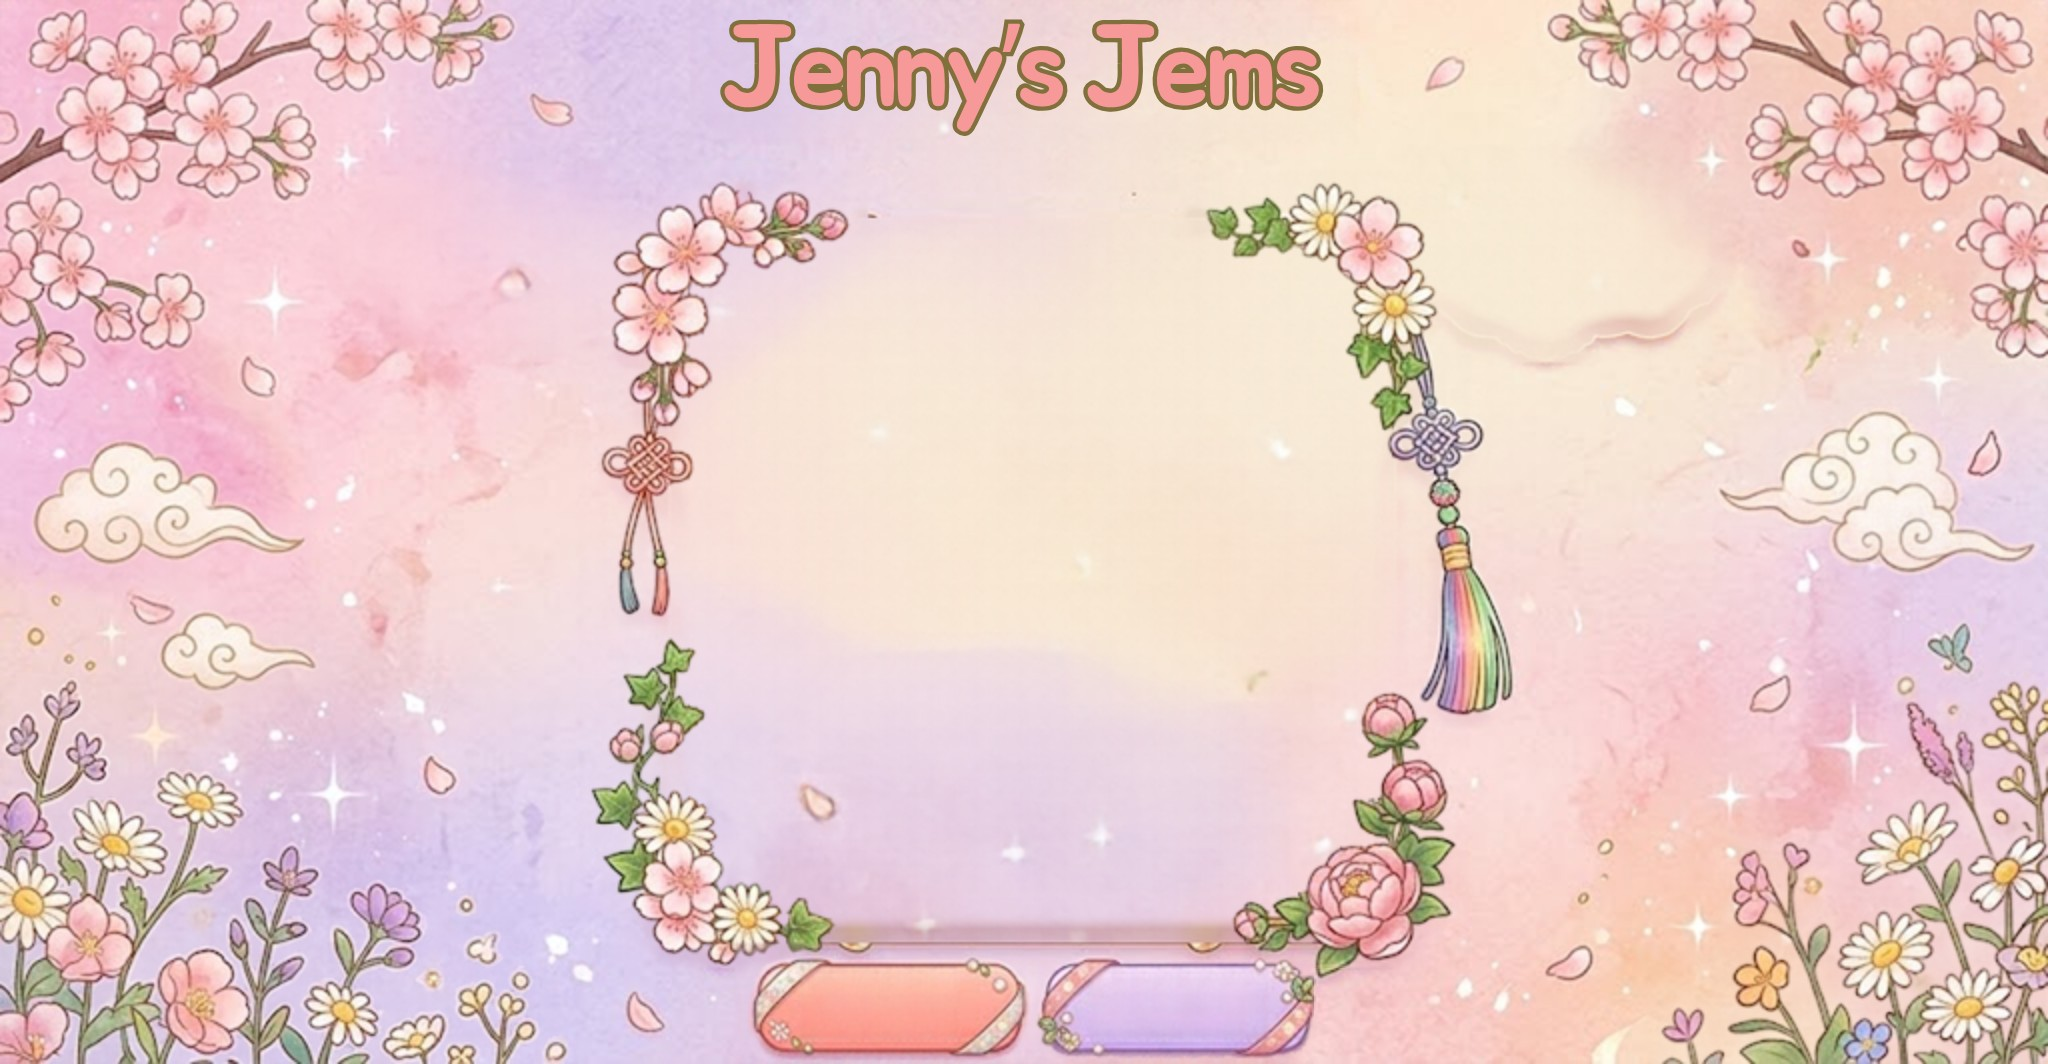
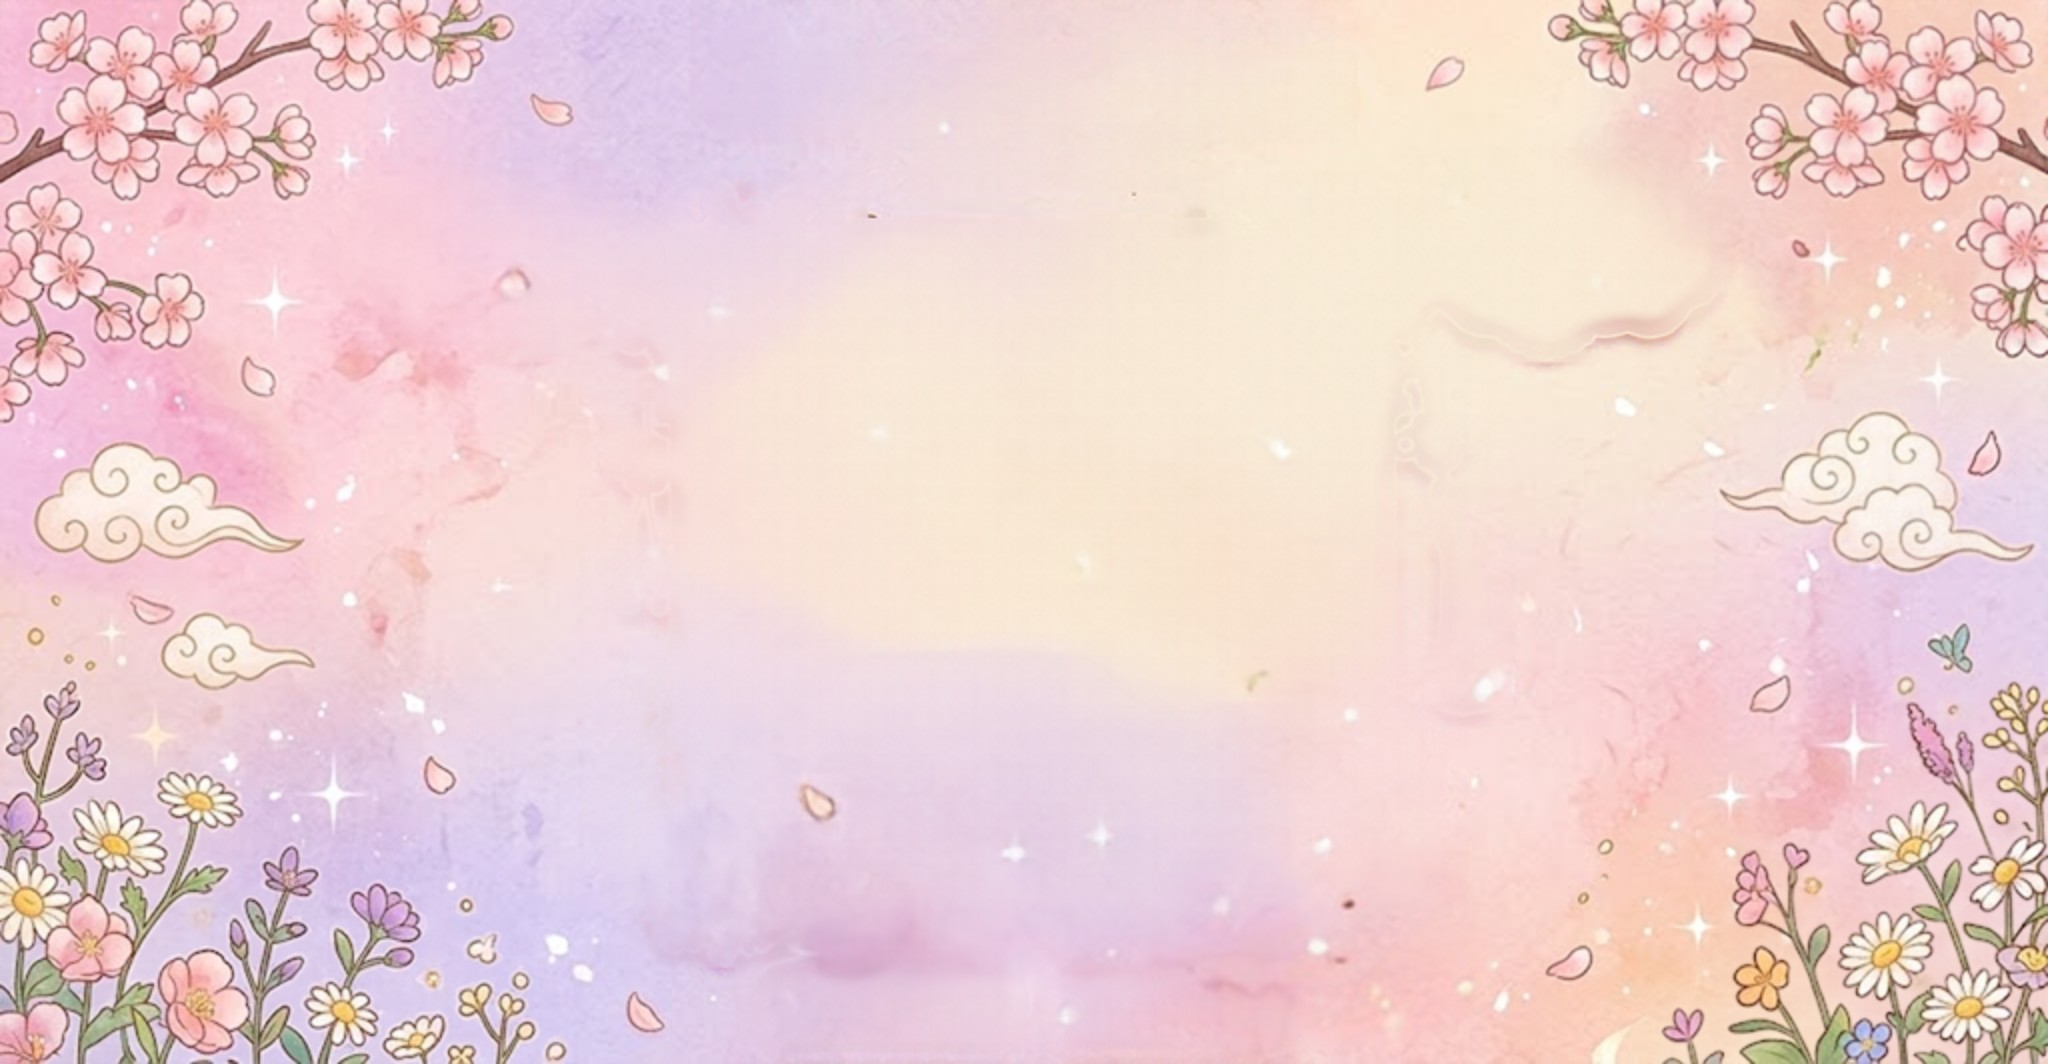
Use owner's artwork for background and frame overlay
- Replace background with clean version (no tassels/frame baked in)
- Add frame.png: transparent floral border overlay drawn cover-fit
  on top of the background at the same scale
- Strip the procedural gold band + cherry blossom border from the
  play grid, leaving a plain cream box with checker cells
- Remove tassel-left.png, tassel-right.png (replaced by frame.png)
- Remove all procedural decoration code from bg.ts (clouds, petals,
  branches, flowers, tassels) -- the owner's artwork handles it all
- JS bundle drops from 46.9KB to 41.4KB (deco.ts tree-shaken out)

Claude-Session: https://claude.ai/code/session_01S2amxi1X8ojXh8LvQoFkPY

Changed region(s): [[0.2812, 0.1551, 0.75, 1.0], [0.3438, 0.0, 0.6562, 0.1241]]

diff --git a/src/bg.ts b/src/bg.ts
@@ -1,22 +1,6 @@
-// Page background: the owner's reference mockup image, drawn cover-fit. On a
-// narrow/tall (portrait phone) viewport, cover-fit crops so much off the sides
-// that the mockup's own edge decorations (tassels, corner blossoms) fall
-// entirely outside the visible window -- so on those aspect ratios a
-// procedural decoration layer (same look, viewport-relative so it can't be
-// cropped out) is drawn on top to restore them. Falls back to a plain
-// gradient (matching the mockup's own tones) until the image loads.
-
-import { FLOWER_COLORS, drawBranch, drawCloud, drawFlower, drawLeaf, drawPetal, drawSparkle } from './deco.ts';
-import { mulberry32 } from './board.ts';
-
-type Ctx2D = CanvasRenderingContext2D;
-
-const DAISY: [string, string] = ['#ffffff', '#ffd84d'];
-const LAVENDER: [string, string] = ['#d8c2f5', '#b393e0'];
-const PEONY_COLORS: Array<[string, string]> = [
-  ['#ffb6c9', '#e85d8a'],
-  ['#ffc2d6', '#ff6f91'],
-];
+// Page background: the owner's artwork drawn cover-fit, with a transparent
+// floral frame overlay (same dimensions, same cover-fit transform) on top.
+// Falls back to a plain gradient until the images load.
 
 interface Asset {
   img: HTMLImageElement;
@@ -35,16 +19,11 @@ function loadAsset(src: string, onReady: () => void): Asset {
 }
 
 let bgImage: Asset | null = null;
-// The real tassel artwork cropped straight out of the mockup photo (rather than
-// a procedural recreation, which didn't match the owner's reference closely
-// enough), feathered at the edges so it blends into the decoration layer below.
-let tasselLeft: Asset | null = null;
-let tasselRight: Asset | null = null;
+let frameImage: Asset | null = null;
 
 function loadAssets(onReady: () => void): void {
   if (!bgImage) bgImage = loadAsset('./bg-mockup.jpg', onReady);
-  if (!tasselLeft) tasselLeft = loadAsset('./tassel-left.png', onReady);
-  if (!tasselRight) tasselRight = loadAsset('./tassel-right.png', onReady);
+  if (!frameImage) frameImage = loadAsset('./frame.png', onReady);
 }
 
 function fillFallbackGradient(ctx: CanvasRenderingContext2D, w: number, h: number): void {
@@ -56,140 +35,14 @@ function fillFallbackGradient(ctx: CanvasRenderingContext2D, w: number, h: numbe
   ctx.fillRect(0, 0, w, h);
 }
 
-function stem(ctx: Ctx2D, x0: number, y0: number, x1: number, y1: number, color: string, w: number): void {
-  ctx.save();
-  ctx.strokeStyle = color;
-  ctx.lineWidth = w;
-  ctx.lineCap = 'round';
-  ctx.beginPath();
-  ctx.moveTo(x0, y0);
-  ctx.quadraticCurveTo((x0 + x1) / 2 + (y0 - y1) * 0.08, (y0 + y1) / 2, x1, y1);
-  ctx.stroke();
-  ctx.restore();
+function drawCoverFit(ctx: CanvasRenderingContext2D, img: HTMLImageElement, w: number, h: number): void {
+  const scale = Math.max(w / img.naturalWidth, h / img.naturalHeight);
+  const dw = img.naturalWidth * scale;
+  const dh = img.naturalHeight * scale;
+  ctx.drawImage(img, (w - dw) / 2, (h - dh) / 2, dw, dh);
 }
 
-/** A branch of cherry blossoms growing in from a page corner. */
-function blossomBranch(ctx: Ctx2D, cx: number, cy: number, dirX: number, dirY: number, len: number): void {
-  const angle = Math.atan2(dirY, dirX);
-  drawBranch(ctx, cx, cy, len, angle, '#8a5a42');
-  const blossoms = 5;
-  for (let i = 0; i < blossoms; i++) {
-    const t = 0.22 + (i / (blossoms - 1)) * 0.72;
-    const perp = i % 2 ? 1 : -1;
-    const bx = cx + dirX * len * t - dirY * perp * len * 0.05;
-    const by = cy + dirY * len * t + dirX * perp * len * 0.05;
-    const r = len * (0.07 + (i % 3) * 0.018);
-    const [petal, center] = FLOWER_COLORS[i % FLOWER_COLORS.length]!;
-    drawLeaf(ctx, bx, by, r * 1.4, angle - 0.9, '#9bc9a0');
-    drawFlower(ctx, bx, by, r, petal, center, 5, i * 0.7);
-  }
-}
-
-/** Viewport-relative decorations (tassels, blossom branches, scattered flowers) that
- * can't be cropped out by the mockup photo's cover-fit, since they aren't part of it. */
-function drawProceduralDecoration(
-  ctx: Ctx2D,
-  w: number,
-  h: number,
-  tasselLeftAsset: Asset | null,
-  tasselRightAsset: Asset | null,
-): void {
-  const rng = mulberry32(2026);
-  const unit = Math.min(w, h);
-
-  ctx.globalAlpha = 0.55;
-  for (let i = 0; i < 10; i++) {
-    const [petal] = FLOWER_COLORS[Math.floor(rng() * FLOWER_COLORS.length)]!;
-    drawPetal(ctx, rng() * w, rng() * h, unit * (0.01 + rng() * 0.012), rng() * Math.PI * 2, petal);
-  }
-
-  ctx.globalAlpha = 0.85;
-  for (let i = 0; i < 12; i++) {
-    drawSparkle(ctx, rng() * w, rng() * h, unit * (0.006 + rng() * 0.01), '#ffffff', 0.7 + rng() * 0.3);
-  }
-
-  // Traditional Korean cloud (구름) motifs, drifting mid-height on each side.
-  ctx.globalAlpha = 1;
-  drawCloud(ctx, w * 0.1, h * 0.36, unit * 0.16, '#c9943a', 0.3);
-  drawCloud(ctx, w * 0.06, h * 0.56, unit * 0.12, '#c9943a', 0.22);
-  drawCloud(ctx, w * 0.9, h * 0.34, unit * 0.15, '#c9943a', 0.28);
-  drawCloud(ctx, w * 0.94, h * 0.58, unit * 0.11, '#c9943a', 0.22);
-
-  // Scattered small flowers for general texture.
-  const count = Math.round((w * h) / 30000);
-  for (let i = 0; i < count; i++) {
-    const x = rng() * w;
-    const y = rng() * h;
-    const r = unit * (0.028 + rng() * 0.04);
-    const [petal, center] = FLOWER_COLORS[Math.floor(rng() * FLOWER_COLORS.length)]!;
-    ctx.globalAlpha = 0.5;
-    drawLeaf(ctx, x, y, r * 1.5, rng() * Math.PI * 2, '#9bc9a0');
-    drawFlower(ctx, x, y, r, petal, center, 5, rng() * Math.PI);
-  }
-
-  // Top corners: blossom branches reaching in.
-  ctx.globalAlpha = 0.95;
-  blossomBranch(ctx, 0, 0, 1, 0.22, unit * 0.34);
-  blossomBranch(ctx, w, 0, -1, 0.22, unit * 0.34);
-
-  // Hanging knot-tassel ornaments flanking the board (approximate position --
-  // the board itself is centered by CSS grid, so this estimates where its
-  // edges typically sit rather than reading the live layout). Real artwork
-  // cropped from the mockup photo, not a procedural recreation.
-  ctx.globalAlpha = 0.95;
-  const drawTassel = (asset: Asset | null, cx: number): void => {
-    if (!asset || !asset.ready) return;
-    const targetH = Math.min(h * 0.6, unit * 1.05);
-    const targetW = targetH * (asset.img.naturalWidth / asset.img.naturalHeight);
-    ctx.drawImage(asset.img, cx - targetW / 2, h * 0.04, targetW, targetH);
-  };
-  drawTassel(tasselLeftAsset, w / 2 - unit * 0.47);
-  drawTassel(tasselRightAsset, w / 2 + unit * 0.47);
-
-  // Bottom-left: a daisy/wildflower patch.
-  ctx.globalAlpha = 0.95;
-  {
-    const bx = 0;
-    const by = h;
-    for (let i = 0; i < 6; i++) {
-      const sx = bx + unit * (0.02 + i * 0.028);
-      const sy = by - unit * (0.03 + (i % 3) * 0.02);
-      stem(ctx, bx + unit * 0.01, by, sx, sy, '#6fae7a', Math.max(1.5, unit * 0.0035));
-      const isAccent = i % 3 === 1;
-      const [petal, center] = isAccent ? LAVENDER : DAISY;
-      drawFlower(ctx, sx, sy, unit * (0.022 + (i % 2) * 0.008), petal, center, isAccent ? 6 : 10, i);
-    }
-  }
-
-  // Bottom-right: a fuller peony cluster.
-  ctx.globalAlpha = 0.95;
-  {
-    const bx = w;
-    const by = h;
-    const blooms: Array<[number, number, number]> = [
-      [-0.1, -0.09, 0.05],
-      [-0.045, -0.055, 0.04],
-      [-0.09, -0.03, 0.032],
-    ];
-    for (const [dx, dy, r] of blooms) {
-      const px = bx + unit * dx;
-      const py = by + unit * dy;
-      drawLeaf(ctx, px, py, unit * r * 1.6, Math.PI * 0.8, '#7fd391');
-      drawLeaf(ctx, px, py, unit * r * 1.3, Math.PI * 1.2, '#9bc9a0');
-    }
-    for (let i = 0; i < blooms.length; i++) {
-      const [dx, dy, r] = blooms[i]!;
-      const [petal, center] = PEONY_COLORS[i % PEONY_COLORS.length]!;
-      drawFlower(ctx, bx + unit * dx, by + unit * dy, unit * r, petal, center, 9, i * 0.5);
-    }
-    drawFlower(ctx, bx - unit * 0.14, by - unit * 0.02, unit * 0.02, ...DAISY, 10, 1);
-    drawFlower(ctx, bx - unit * 0.02, by - unit * 0.12, unit * 0.018, ...DAISY, 10, 2);
-  }
-
-  ctx.globalAlpha = 1;
-}
-
-/** Paints the page background from the reference mockup image, cover-fit and centered. */
+/** Paints the page background and floral frame overlay, both cover-fit. */
 export function drawBackground(canvas: HTMLCanvasElement): void {
   const w = window.innerWidth;
   const h = window.innerHeight;
@@ -205,23 +58,10 @@ export function drawBackground(canvas: HTMLCanvasElement): void {
     fillFallbackGradient(ctx, w, h);
     return;
   }
-  const img = bgImage.img;
 
-  const scale = Math.max(w / img.naturalWidth, h / img.naturalHeight);
-  const dw = img.naturalWidth * scale;
-  const dh = img.naturalHeight * scale;
-  const dx = (w - dw) / 2;
-  const dy = (h - dh) / 2;
-  ctx.drawImage(img, dx, dy, dw, dh);
+  drawCoverFit(ctx, bgImage.img, w, h);
 
-  // The mockup's own tassels sit about 31% of its width in from each edge.
-  // Cover-fit only crops them out once the visible fraction of the image's
-  // width drops below that -- true portrait phones/tablets, not a merely
-  // wide-but-not-square desktop window. Below that point, restore them
-  // procedurally instead of leaving them cropped off screen.
-  const imageAspect = img.naturalWidth / img.naturalHeight;
-  const visibleWidthFraction = Math.min(1, w / h / imageAspect);
-  if (visibleWidthFraction < 0.5) {
-    drawProceduralDecoration(ctx, w, h, tasselLeft, tasselRight);
+  if (frameImage?.ready && frameImage.img.naturalWidth > 0) {
+    drawCoverFit(ctx, frameImage.img, w, h);
   }
 }

diff --git a/src/board-render.ts b/src/board-render.ts
@@ -6,7 +6,6 @@ import type { Grid, Mask, Pos } from './board.ts';
 import type { GemArt, ObstacleArt, OverlayArt } from './gems.ts';
 import type { Particle } from './particles.ts';
 import type { Sprite } from './sprites.ts';
-import { FLOWER_COLORS, drawFlower, drawLeaf } from './deco.ts';
 
 /** roundRect() needs a fairly recent browser; arcTo works everywhere. */
 export function roundRectPath(
@@ -44,9 +43,10 @@ export interface FrameGeometry {
   canvasH: number;
 }
 
-/** Pre-renders the gold cherry-blossom frame, cream board, and checkered cells. */
+/** Pre-renders a plain cream board with checkered cells (no floral border --
+ * the owner's frame.png overlay handles the decorative surround). */
 export function buildFrame(geo: FrameGeometry): HTMLCanvasElement {
-  const { rows, cols, mask, cell, pad, bleed, dpr, cssW, cssH, ox, oy } = geo;
+  const { rows, cols, mask, cell, bleed, dpr, cssW, cssH, ox, oy } = geo;
   const cv = document.createElement('canvas');
   cv.width = geo.canvasW;
   cv.height = geo.canvasH;
@@ -55,35 +55,19 @@ export function buildFrame(geo: FrameGeometry): HTMLCanvasElement {
 
   const rr = (x: number, y: number, w: number, h: number, r: number): void => roundRectPath(c, x, y, w, h, r);
 
-  // Frame band.
+  // Cream board background.
   const bx = bleed;
   const by = bleed;
   const bw = cssW - 2 * bleed;
   const bh = cssH - 2 * bleed;
-  const band = c.createLinearGradient(0, by, 0, by + bh);
-  band.addColorStop(0, '#f3cf7e');
-  band.addColorStop(0.5, '#e3b65c');
-  band.addColorStop(1, '#c9943a');
-  rr(bx, by, bw, bh, cell * 0.42);
-  c.fillStyle = band;
-  c.fill();
-  c.lineWidth = Math.max(2, cell * 0.05);
-  c.strokeStyle = 'rgba(255,250,235,0.85)';
-  c.stroke();
-
-  // Cream board.
-  const ix = bx + pad * 0.45;
-  const iy = by + pad * 0.45;
-  const iw = bw - pad * 0.9;
-  const ih = bh - pad * 0.9;
-  const cream = c.createLinearGradient(0, iy, 0, iy + ih);
+  const cream = c.createLinearGradient(0, by, 0, by + bh);
   cream.addColorStop(0, '#fff6e6');
   cream.addColorStop(1, '#ffe9c4');
-  rr(ix, iy, iw, ih, cell * 0.3);
+  rr(bx, by, bw, bh, cell * 0.3);
   c.fillStyle = cream;
   c.fill();
   c.lineWidth = Math.max(1.5, cell * 0.03);
-  c.strokeStyle = 'rgba(201,148,58,0.65)';
+  c.strokeStyle = 'rgba(201,148,58,0.45)';
   c.stroke();
 
   // Checkered cells (skipped for masked-out cells -- the cream board shows through).
@@ -97,37 +81,6 @@ export function buildFrame(geo: FrameGeometry): HTMLCanvasElement {
     }
   }
 
-  // Cherry blossoms + leaves around the frame.
-  const leaf = '#9bc9a0';
-  const midY = by + pad * 0.25;
-  const rBand = Math.max(pad * 0.62, 9);
-  const edge = (x: number, y: number, angle: number, ci: number): void => {
-    drawLeaf(c, x, y, rBand * 2.1, angle - 0.5, leaf);
-    drawLeaf(c, x, y, rBand * 2.1, angle + 0.5, leaf);
-    const [petal, center] = FLOWER_COLORS[ci % FLOWER_COLORS.length]!;
-    drawFlower(c, x, y, rBand, petal, center, 5, ci);
-  };
-  for (let i = 1; i < cols; i += 2) {
-    const x = ox + i * cell + cell * 0.5 * (i % 2 ? 1 : 0);
-    edge(x, midY + pad * 0.1, -Math.PI / 2, i);
-    edge(x, by + bh - pad * 0.35, Math.PI / 2, i + 1);
-  }
-  for (let i = 1; i < rows; i += 2) {
-    const y = oy + i * cell;
-    edge(bx + pad * 0.3, y, Math.PI, i + 2);
-    edge(bx + bw - pad * 0.3, y, 0, i + 3);
-  }
-  const corner = (x: number, y: number, a: number, ci: number): void => {
-    drawLeaf(c, x, y, cell * 0.55, a - 0.6, leaf);
-    drawLeaf(c, x, y, cell * 0.55, a + 0.6, '#aed9b2');
-    const [petal, center] = FLOWER_COLORS[ci % FLOWER_COLORS.length]!;
-    drawFlower(c, x, y, cell * 0.38, petal, center, 5, a);
-  };
-  const o = cell * 0.24;
-  corner(bx + o, by + o, (-3 * Math.PI) / 4, 0);
-  corner(bx + bw - o, by + o, -Math.PI / 4, 1);
-  corner(bx + o, by + bh - o, (3 * Math.PI) / 4, 2);
-  corner(bx + bw - o, by + bh - o, Math.PI / 4, 3);
   return cv;
 }
 
